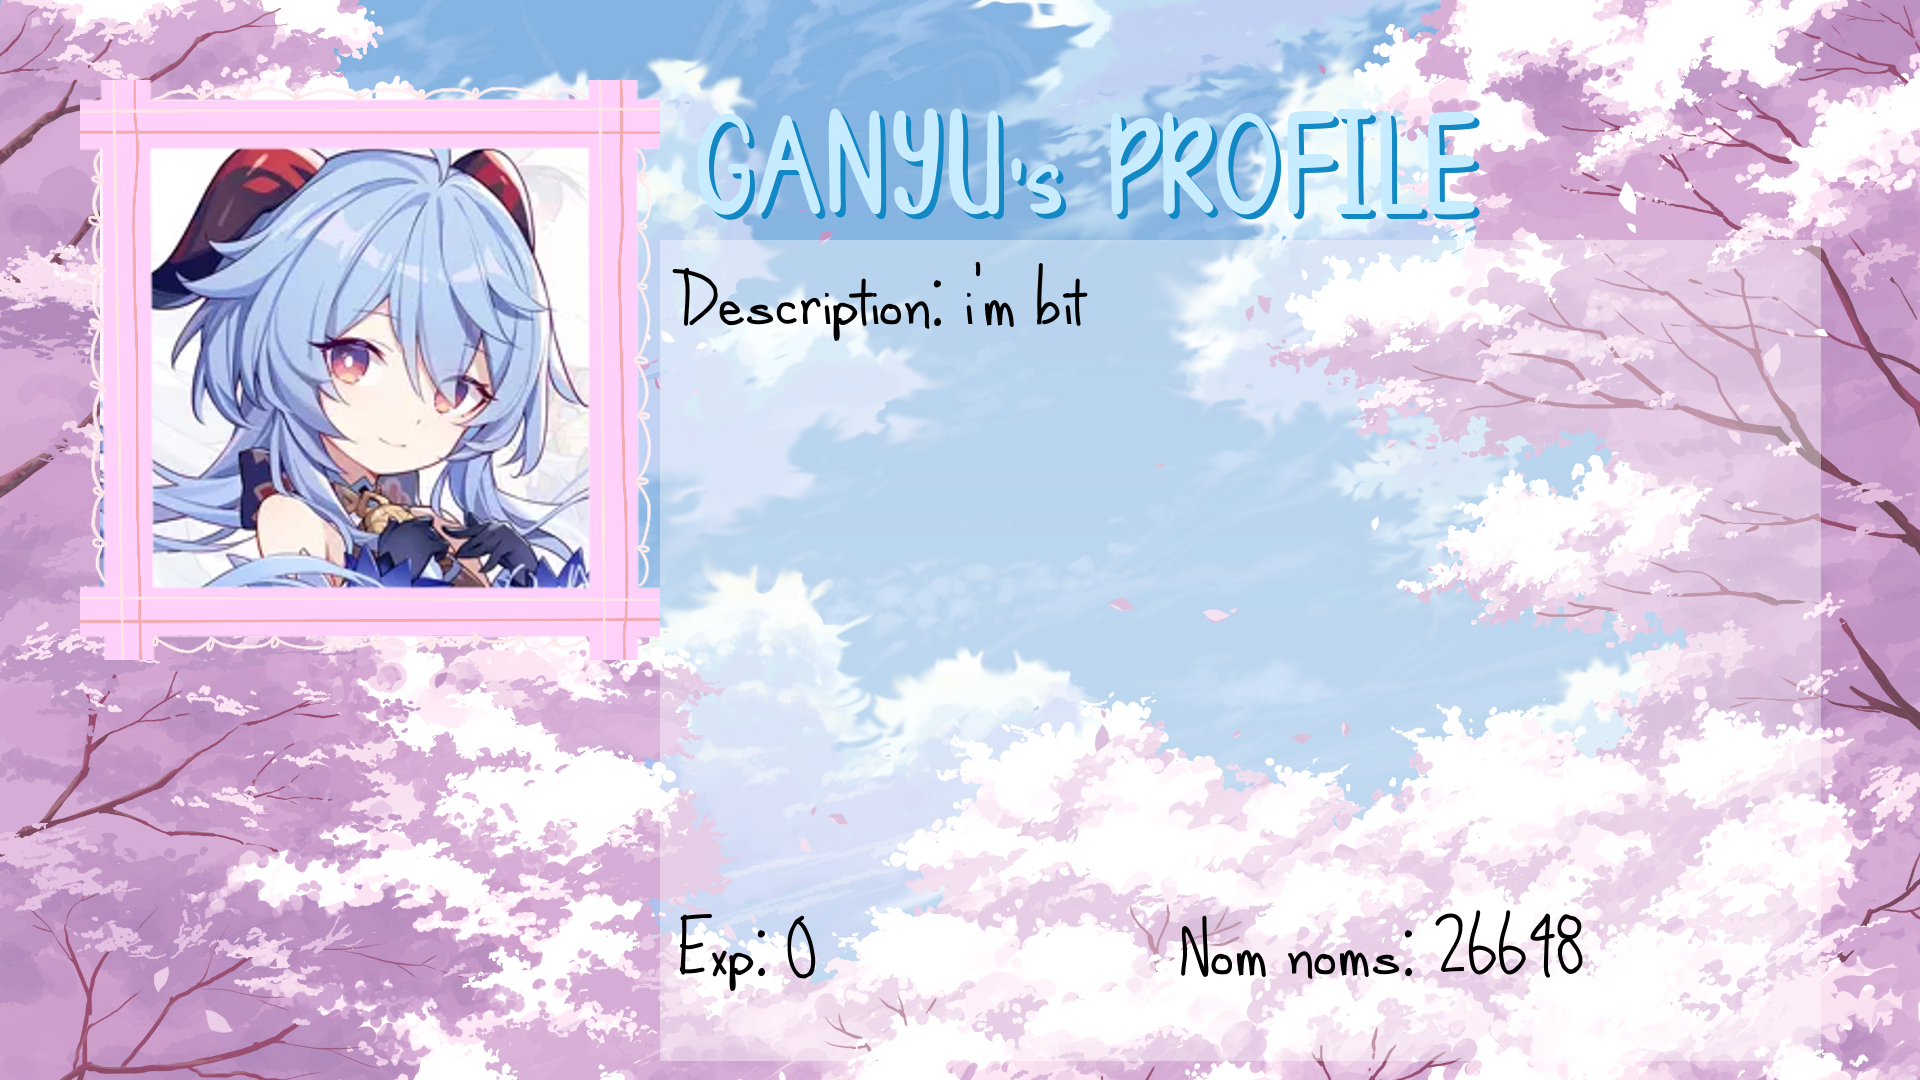
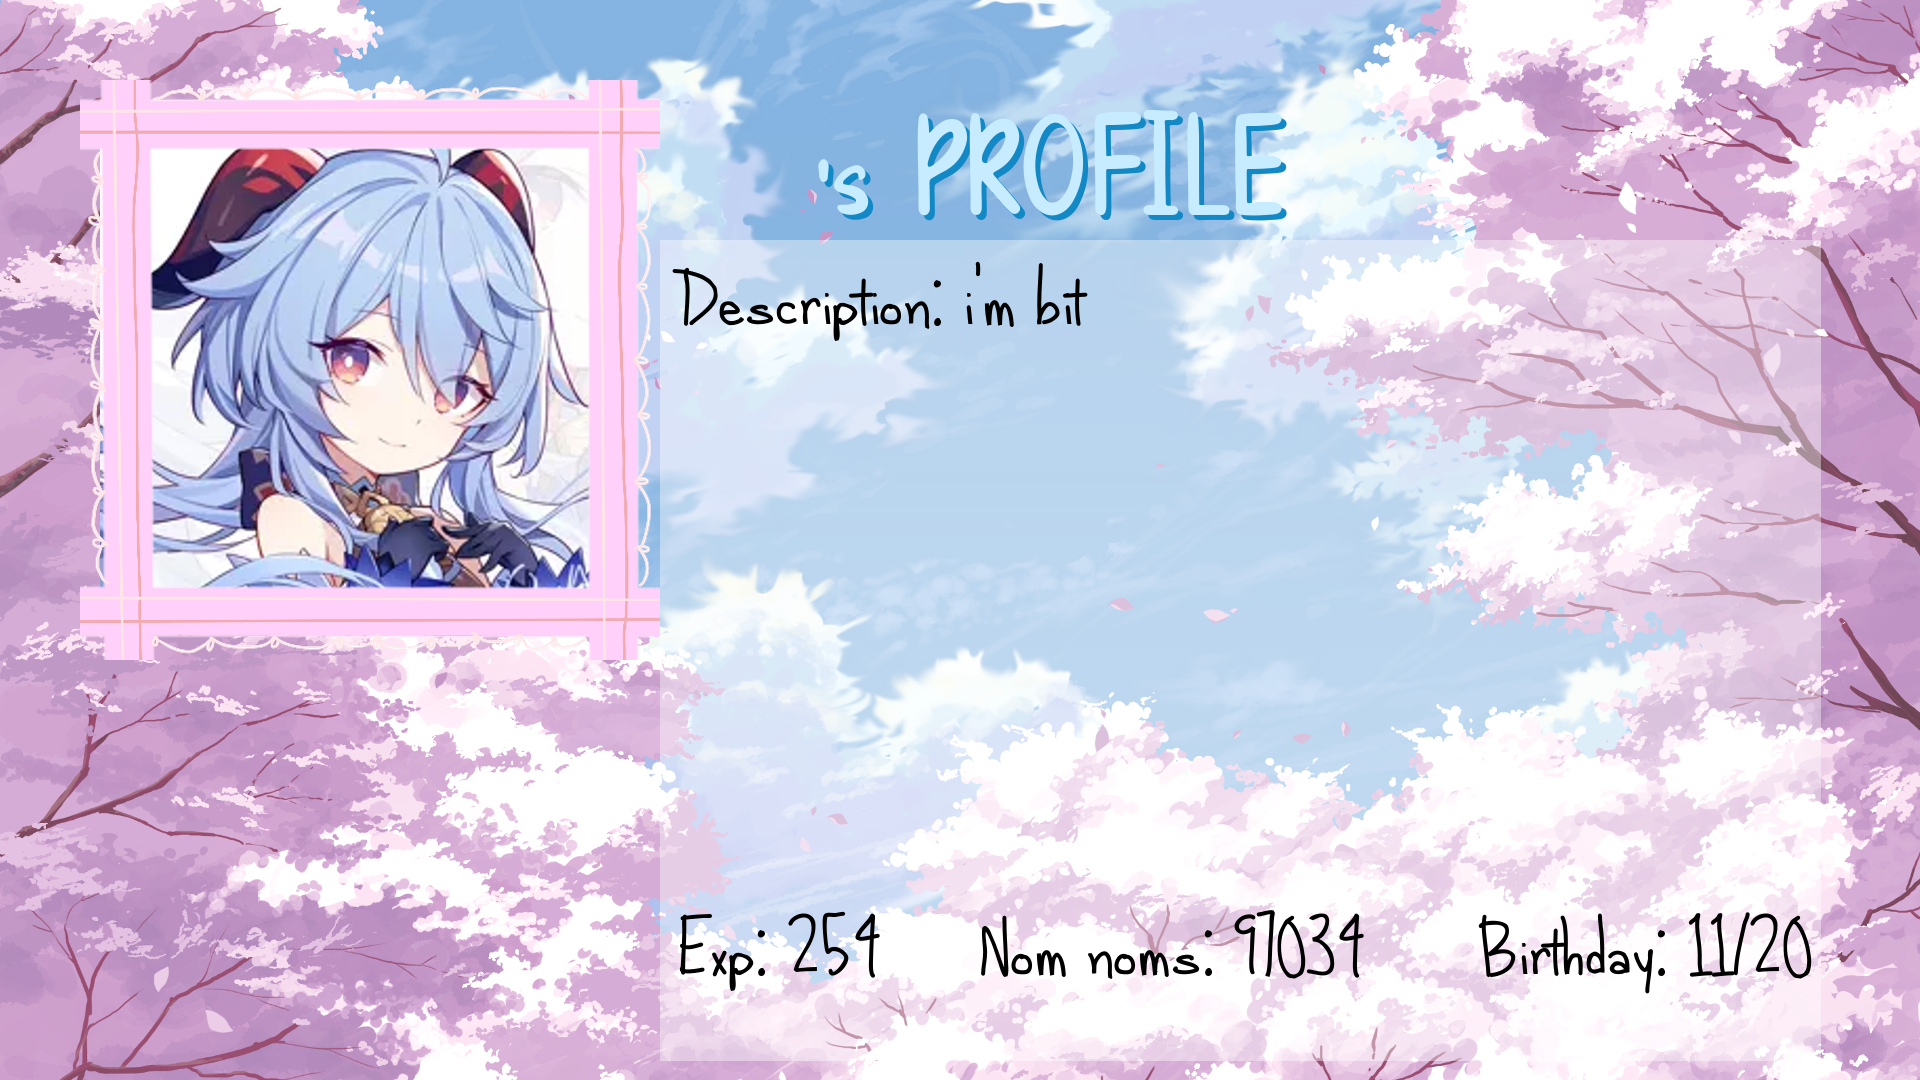
birthdays!

Changed region(s): [[0.3438, 0.0917, 0.7812, 0.2139], [0.5, 0.825, 0.9375, 0.9167], [0.4062, 0.825, 0.4688, 0.9167]]

diff --git a/cogs/exp.py b/cogs/exp.py
@@ -6,9 +6,12 @@ import random
 from datetime import datetime
 
 from discord.ext.commands import has_permissions
+from tinydb import TinyDB, Query
 
 from util import udb
 from util.pillow import Pillow
+
+import re
 
 
 class Exp(commands.Cog):
@@ -59,29 +62,30 @@ class Exp(commands.Cog):
         else:
             old_role = message.guild.get_role(706989660244541540)
         temp = self.db.top_six('pts')
-        temp = [temp[0][0], temp[1][0], temp[2][0], temp[3][0], temp[4][0], temp[5][0]]
+        top_six = []
+        for person in temp:
+            top_six.append(person[0])
+        temp = self.db.top_eighteen()
+        top_et = []
+        for person in temp:
+            top_et.append(person[0])
         if record is None or isinstance(message.author.roles, discord.User):
             return
-        if record[1] < 1000:
-            if old_role is not moons:
-                await message.author.add_roles(moons)
-                await message.author.remove_roles(old_role)
-        elif _id in temp:
+        if record[1] >= 1000 and _id in top_six:
             if old_role is not stars:
                 await message.author.add_roles(stars)
                 await message.author.remove_roles(old_role)
-        elif old_role is not planets:
-            await message.author.add_roles(planets)
+        elif record[1] >= 500 and _id in top_et:
+            if old_role is not planets:
+                await message.author.add_roles(planets)
+                await message.author.remove_roles(old_role)
+        elif old_role is not moons:
+            await message.author.add_roles(moons)
             await message.author.remove_roles(old_role)
 
     @commands.command(hidden=True)
     @has_permissions(manage_guild=True)
     async def init_roles(self, ctx):
-        # for member in ctx.guild.members:
-        #     if not member.bot:
-        #         await member.remove_roles(ctx.guild.get_role(698255109406326876))
-        #         await member.remove_roles(ctx.guild.get_role(709910163879886917))
-        #         await member.add_roles(ctx.guild.get_role(706989660244541540))
         await self.db.set('users', 'pts', '0', None)
         await ctx.send('done')
 
@@ -130,7 +134,7 @@ class Exp(commands.Cog):
     @commands.command(description='check your profile that has your exp and nom noms!\n.profile; .profile @nibbles')
     async def profile(self, ctx):
         if len(ctx.message.mentions) > 0:
-            user = ctx.guild.fetch_member(ctx.message.mentions[0].id)
+            user = await ctx.guild.fetch_member(ctx.message.mentions[0].id)
         else:
             user = ctx.author
 
@@ -138,7 +142,12 @@ class Exp(commands.Cog):
             await user.avatar_url.save(f'./img/pfp/{user.id}.jpg')
 
         await ctx.send('Generating...', delete_after=3)
-        self.pillow.generate_profile(user)
+        with TinyDB('birthday.json') as bd:
+            birthday = bd.search(Query().user == user.id)
+            if len(birthday) == 0:
+                self.pillow.generate_profile(user)
+            else:
+                self.pillow.generate_profile(user, birthday[0].get('birthday'))
 
         await ctx.send(file=discord.File('./img/profile.png'))
 
@@ -153,6 +162,21 @@ class Exp(commands.Cog):
             return
         await self.db.set('users', 'description', f'"{param}"', str(ctx.author.id))
         await ctx.send("Description updated <:nekocheer:804178590094327878>")
+
+    @commands.command(aliases=['setbd'],
+                      description='set your birthday to be announced on the day and for your profile!\n'
+                                  '.set_birthday mm/dd; .setbd 02/14')
+    async def set_birthday(self, ctx, birthday):
+        pattern = re.compile("[0-9]{2}/[0-9]{2}$")
+        if not pattern.match(birthday):
+            await ctx.send('that is not the correct date time format')
+            return
+        with TinyDB('./birthday.json') as bd:
+            if bd.search(Query().user == ctx.author.id):
+                await ctx.send('you already set your birthday! If you have made an error, contact an admin')
+                return
+            bd.insert({'user': ctx.author.id, 'birthday': birthday})
+        await ctx.send('your birthday is now set as ' + birthday)
 
 
 def setup(client):

diff --git a/cogs/summon.py b/cogs/summon.py
@@ -54,21 +54,21 @@ class Summon(commands.Cog):
             idb.create_user(ctx.author.id)
         if self.gdb.find_user('users', str(ctx.author.id)) is None:
             await self.gdb.insert('users', f'({ctx.author.id}, 0, 0, 0, 0, 0)')
-        if not (amount == 1 or 10):
-            await ctx.send('please only do 1 or 10 pulls.')
+        if not (0 <= amount <= 10):
+            await ctx.send('please only do 1-10 pulls.')
             return
         if not self._wish_check_bal(ctx.author.id, amount):
             await ctx.send(f'you cannot afford {amount} summon{"" if amount == 1 else "s"}!')
             return
         embed = discord.Embed()
         categories = await self._wish_rarity_calc(ctx.author.id, 'event', amount)
-        if categories[0] > 0 or categories[1] > 0 and amount == 10:
+        if categories[0] > 0 or categories[1] > 0 and amount >= 5:
             embed.set_image(url="https://media.giphy.com/media/4Q38sALn5Gl48s7Jv3/giphy.gif")
-        elif categories[0] > 0 or categories[1] > 0 and amount == 1:
+        elif categories[0] > 0 or categories[1] > 0 and amount < 5:
             embed.set_image(url="https://media.giphy.com/media/X1oxDDQYMNx3RBYXkc/giphy.gif")
-        elif categories[2] > 0 and amount == 10:
+        elif categories[2] > 0 and amount >= 5:
             embed.set_image(url="https://media.giphy.com/media/U04NUo8yZy20GohN4U/giphy.gif")
-        elif categories[2] > 0 and amount == 1:
+        elif categories[2] > 0 and amount < 5:
             embed.set_image(url="https://media.giphy.com/media/2mSCyZFXmHS2RQT4LF/giphy.gif")
         else:
             embed.set_image(url="https://media.giphy.com/media/Cj6L4uLFEfsV2iJjq3/giphy.gif")
@@ -76,7 +76,7 @@ class Summon(commands.Cog):
         await ctx.send(embed=embed, delete_after=5)
         results = self._wish_event_results(categories)
         self.pillow.generate_wishes(results)
-        time.sleep(5)
+        time.sleep(3)
         await ctx.send(file=discord.File('./img/results.png'))
 
         await self.udb.update('users', 'bal', '-'+str(160*amount), str(ctx.author.id))
@@ -105,13 +105,13 @@ class Summon(commands.Cog):
         categories = await self._wish_rarity_calc(ctx.author.id, 'reg', amount)
         embed = discord.Embed()
 
-        if categories[0] > 0 and amount == 10:
+        if categories[0] > 0 and amount >= 5:
             embed.set_image(url="https://media.giphy.com/media/4Q38sALn5Gl48s7Jv3/giphy.gif")
-        elif categories[0] > 0 and amount == 1:
+        elif categories[0] > 0 and amount < 5:
             embed.set_image(url="https://media.giphy.com/media/X1oxDDQYMNx3RBYXkc/giphy.gif")
-        elif categories[1] > 0 and amount == 10:
+        elif categories[1] > 0 and amount >= 5:
             embed.set_image(url="https://media.giphy.com/media/U04NUo8yZy20GohN4U/giphy.gif")
-        elif categories[1] > 0 and amount == 1:
+        elif categories[1] > 0 and amount < 5:
             embed.set_image(url="https://media.giphy.com/media/2mSCyZFXmHS2RQT4LF/giphy.gif")
         else:
             embed.set_image(url="https://media.giphy.com/media/Cj6L4uLFEfsV2iJjq3/giphy.gif")
@@ -119,7 +119,7 @@ class Summon(commands.Cog):
         await ctx.send(embed=embed, delete_after=5)
         results = self._wish_reg_results(categories)
         self.pillow.generate_wishes(results)
-        time.sleep(5)
+        time.sleep(3)
         await ctx.send(file=discord.File('./img/results.png'))
 
         await self.udb.update('users', 'bal', '-' + str(160 * amount), str(ctx.author.id))

diff --git a/util/pillow.py b/util/pillow.py
@@ -25,7 +25,7 @@ class Pillow(commands.Cog):
         if before.avatar_url != after.avatar_url and os.path.exists(f'./img/pfp/{before.id}.jpg'):
             os.remove(f'./img/pfp/{before.id}.jpg')
 
-    def generate_profile(self, user):
+    def generate_profile(self, user, birthday='N/A'):
         bg = Image.open('./img/backgrounds/profile_bg.jpg').convert('RGBA')
         pfp = Image.open(f'./img/pfp/{user.id}.jpg').resize((536, 536))
         pfp_border = Image.open('./img/profile_border.png').resize((580, 580))
@@ -59,11 +59,16 @@ class Pillow(commands.Cog):
         description = f'Description: {desc}'
         text_layer = Image.new('RGBA', bg.size)
         txt = ImageDraw.Draw(text_layer)
-        txt.text((700, 100), user.nick.upper() + "'s PROFILE", (18, 136, 196), font=self.title_font)
-        txt.text((695, 95), user.nick.upper() + "'s PROFILE", (199, 236, 255), font=self.title_font)
+        if user.nick is None:
+            name = user.display_name.upper()
+        else:
+            name = user.nick.upper()
+        txt.text((700, 100), name + "'s PROFILE", (18, 136, 196), font=self.title_font)
+        txt.text((695, 95), name + "'s PROFILE", (199, 236, 255), font=self.title_font)
         txt.text((680, 250), description, (0, 0, 0), font=self.body_font)
         txt.text((680, 900), f'Exp: {user_info[1]}', (0, 0, 0), font=self.body_font)
-        txt.text((1180, 900), f'Nom noms: {user_info[2]}', (0, 0, 0), font=self.body_font)
+        txt.text((980, 900), f'Nom noms: {user_info[2]}', (0, 0, 0), font=self.body_font)
+        txt.text((1480, 900), f'Birthday: {birthday}', (0, 0, 0), font=self.body_font)
         bg = Image.alpha_composite(bg, overlay)
         bg = Image.alpha_composite(bg, text_layer)
         bg.save('./img/profile.png')

diff --git a/bot.py b/bot.py
@@ -86,7 +86,7 @@ async def on_command_error(ctx, error):
             _f.write(f'[{datetime.now().strftime("%m/%d/%Y, %H:%M:%S")}] {error}\n')
 
 
-@client.command(aliases=['help'], hidden=True)
+@client.command(name='help', hidden=True)
 async def descriptions(ctx):
     embed_var = discord.Embed(title="Nibbles is here to help", color=0x8109e9)
     for item in client.commands:
@@ -108,7 +108,12 @@ async def mod_help(ctx):
 @client.event
 async def on_message(message):
     if client.user.mentioned_in(message):
-        await message.channel.send("nom")
+        eight_ball = [' It is certain.', ' It is decidedly so.', 'Without a doubt.', 'Yes – definitely.',
+                      ' You may rely on it.', 'As I see it, yes.', 'Most likely.', 'Outlook good.', 'Yes.',
+                      ' Signs point to yes.', 'Reply hazy, try again.', 'Ask again later.', 'Better not tell you now.',
+                      'Cannot predict now.', 'Concentrate and ask again.', "Don't count on it.", ' My reply is no.',
+                      'My sources say no.', 'Outlook not so good.', 'Very doubtful.']
+        await message.channel.send(random.choice(eight_ball))
     else:
         await client.process_commands(message)
 

diff --git a/cogs/gamble.py b/cogs/gamble.py
@@ -6,6 +6,8 @@ from discord.ext import commands, tasks
 from discord.ext.commands import has_permissions, cooldown, BucketType, CommandOnCooldown
 import random
 
+from tinydb import TinyDB, Query
+
 from util import udb
 
 
@@ -66,6 +68,13 @@ class Gamble(commands.Cog):
     async def announce(self):
         channel = await self.client.fetch_channel(681149093858508834)
         await channel.send('Your free wheel of fortune is now available!')
+        today = datetime.now().strftime("%m/%d")
+        with TinyDB('./birthday.json') as _db:
+            for people in _db.search(Query().birthday == today):
+                await channel.send(f"It is {channel.guild.get_member(people['user']).mention}'s birthday today!")
+                await channel.send(f"You received 14400 nom noms!")
+                await self.db.update('users', 'bal', '+14400', str(people['user']))
+
         self.wheel = []
 
     @commands.command(hidden=True)

diff --git a/util/udb.py b/util/udb.py
@@ -90,6 +90,10 @@ class UserDatabase(commands.Cog):
         self.conn.close()
         await ctx.send('user db connection closed')
 
+    def top_eighteen(self):
+        self.c.execute("SELECT user_id FROM users ORDER BY pts DESC LIMIT 18")
+        return self.c.fetchall()
+
 
 def setup(client):
     client.add_cog(UserDatabase(client))
